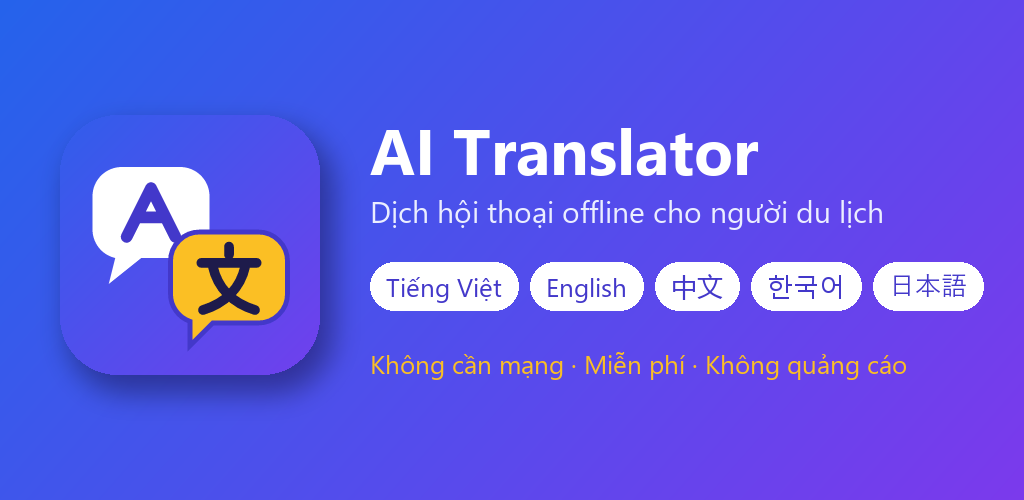
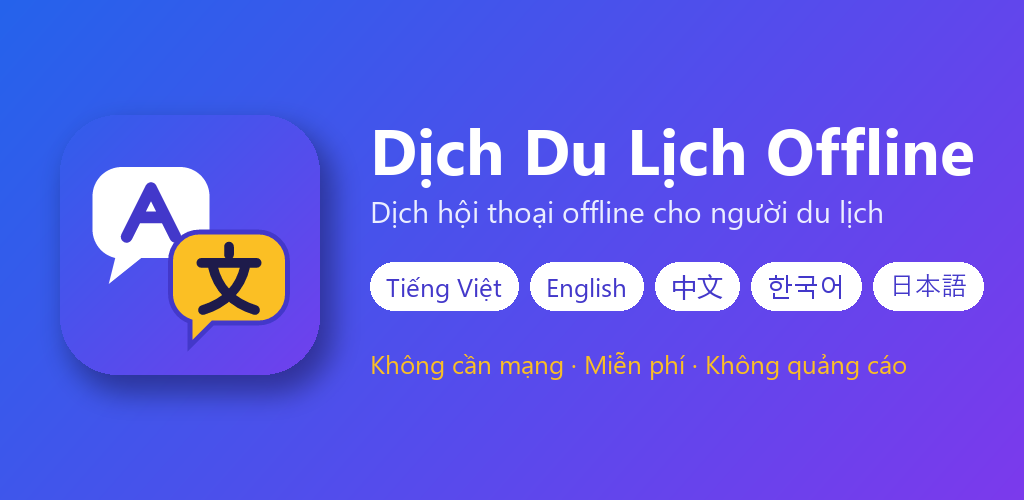
Rename the app to "Dịch Du Lịch Offline"; detailed Play Console walkthrough
- app_name, microphone messages, privacy policy, store listing and feature graphic
- docs/release.md: click-by-click steps (keystore, internal test, app content,
  store listing, closed test, production)

Changed region(s): [[0.3438, 0.24, 0.9688, 0.39]]

diff --git a/store/make_feature.py b/store/make_feature.py
@@ -1,6 +1,6 @@
 """Google Play feature graphic (1024 x 500): icon, app name, tagline and the five languages.
 
-    python store/make_feature.py [--name "AI Translator"] [--tagline "..."]
+    python store/make_feature.py [--name "Dịch Du Lịch Offline"] [--tagline "..."]
 
 Needs Pillow and an SVG renderer (resvg-py) for the icon; uses Windows fonts (Segoe UI, YaHei, Malgun, Yu Gothic).
 Re-run after renaming the app.
@@ -44,7 +44,7 @@ def icon(size: int) -> Image.Image:
 
 def main() -> None:
     ap = argparse.ArgumentParser()
-    ap.add_argument("--name", default="AI Translator")
+    ap.add_argument("--name", default="Dịch Du Lịch Offline")
     ap.add_argument("--tagline", default="Dịch hội thoại offline cho người du lịch")
     ap.add_argument("--note", default="Không cần mạng · Miễn phí · Không quảng cáo")
     ap.add_argument("--out", default=str(HERE / "feature-1024x500.png"))

diff --git a/docs/release.md b/docs/release.md
@@ -1,114 +1,129 @@
-# Phát hành lên Google Play
+# Phát hành "Dịch Du Lịch Offline" lên Google Play
 
-Hướng dẫn từng bước, theo thứ tự. 👤 = việc anh/chị tự làm (tài khoản, thanh toán, mật khẩu); các bước còn lại có thể nhờ Claude.
+Làm lần lượt từ trên xuống. 👤 = anh/chị tự làm (mật khẩu, tài khoản); 🤖 = nhờ Claude làm được.
+Tên menu trong Play Console có thể hiện tiếng Anh hoặc tiếng Việt tuỳ cài đặt — ghi cả hai.
 
-> Đã kiểm tra (2026-10-30): bản AAB **35 MB** (giới hạn của Play 200 MB); `targetSdk 36` đạt yêu cầu API 36 cho app mới;
-> cả 6 thư viện native đã căn trang **16 KB** (`llvm-readelf`: LOAD align `0x4000`, `zipalign -c -P 16` OK); chỉ arm64-v8a (64-bit).
+> Đã kiểm tra (2026-10-30): AAB **35 MB** (giới hạn 200 MB) · `targetSdk 36` (yêu cầu API 36 cho app mới) ·
+> 6 thư viện native căn trang **16 KB** · chỉ arm64-v8a (64-bit) · mã gói `io.github.thucnguyen79.aitranslator`.
 
-## Tổng quan thời gian
+## Bước 1 — 👤 Tạo khoá ký (một lần, ~5 phút)
 
-| Bước | Thời gian |
-|---|---|
-| 1. Tạo tài khoản nhà phát triển, xác minh danh tính | 1–3 ngày (chờ Google duyệt) |
-| 2–4. Khoá ký, build, tạo app trên Play Console, điền thông tin | 1 buổi |
-| 5. Kiểm thử kín với **≥ 12 người trong 14 ngày liên tục** (tài khoản cá nhân) | ≥ 14 ngày |
-| 6. Xin quyền phát hành chính thức → Google duyệt | vài ngày |
-
-## 1. 👤 Tạo tài khoản Google Play Console
-
-1. Vào <https://play.google.com/console/signup>, đăng nhập bằng tài khoản Google sẽ dùng lâu dài.
-2. Chọn loại tài khoản:
-   - **Cá nhân**: nhanh, nhưng tài khoản mới **bắt buộc kiểm thử kín ≥ 12 người × 14 ngày** trước khi lên chính thức (bước 5).
-   - **Tổ chức** (công ty): cần **số D-U-N-S** của công ty (miễn phí, đăng ký qua Dun & Bradstreet, mất vài ngày đến vài tuần); không bị yêu cầu 12 người × 14 ngày.
-3. Trả phí đăng ký một lần **25 USD** (thẻ Visa/Mastercard).
-4. Xác minh danh tính (CCCD/hộ chiếu) và số điện thoại; Google duyệt trong vài ngày.
-
-## 2. 👤 Tạo khoá ký (upload key)
-
-Bản lên Play được ký bằng **khoá tải lên (upload key)** của anh/chị; Google giữ khoá ký thật của app (Play App Signing).
-Mất upload key thì vẫn xin Google cấp lại được, nhưng mất vài ngày — hãy sao lưu file `.jks` và mật khẩu (trình quản lý mật khẩu, ổ ngoài). **Không đưa lên git.**
+Mở PowerShell tại thư mục dự án `D:\Projects\AI_Translators`:
 
 ```bash
-D:\Tools\jdk-21.0.11+10\bin\keytool.exe -genkeypair -v -keystore release.jks -alias aitranslator -keyalg RSA -keysize 4096 -validity 10000
+D:\Tools\jdk-21.0.11+10\bin\keytool.exe -genkeypair -v -keystore release.jks -alias dichdulich -keyalg RSA -keysize 4096 -validity 10000
 ```
 
-Tạo file `keystore.properties` ở thư mục gốc dự án (đã có trong `.gitignore`):
+- Nhập mật khẩu khoá 2 lần (ghi lại ngay vào trình quản lý mật khẩu).
+- Các câu hỏi tên/tổ chức/thành phố: điền tuỳ ý (ví dụ tên, `Ho Chi Minh`, `VN`), cuối cùng gõ `yes`.
+
+Tạo file `keystore.properties` cùng thư mục (file này và `release.jks` đã được git bỏ qua, **không bao giờ đưa lên GitHub**):
 
 ```properties
 storeFile=release.jks
-storePassword=...
-keyAlias=aitranslator
-keyPassword=...
+storePassword=MẬT_KHẨU_VỪA_ĐẶT
+keyAlias=dichdulich
+keyPassword=MẬT_KHẨU_VỪA_ĐẶT
 ```
 
-Trên CI thay bằng biến môi trường `RELEASE_STOREFILE`, `RELEASE_STOREPASSWORD`, `RELEASE_KEYALIAS`, `RELEASE_KEYPASSWORD`.
-Không có các giá trị này thì bản release được ký bằng khoá debug — **Play sẽ từ chối** bản đó.
+Sao lưu `release.jks` + mật khẩu ra một nơi khác (USB, Google Drive cá nhân). Nếu mất, vẫn xin Google đổi khoá được nhưng mất vài ngày.
 
-## 3. Build bản phát hành
+## Bước 2 — 🤖 Build bản phát hành
 
-1. Mỗi lần nộp bản mới: tăng `versionCode` (1, 2, 3…) và sửa `versionName` (0.1.0 → 0.1.1…) trong `app/build.gradle.kts`.
-2. Build App Bundle:
+```bash
+.\gradlew.bat :app:bundleRelease
+```
 
-   ```bash
-   .\gradlew.bat :app:bundleRelease
+File cần tải lên: `app\build\outputs\bundle\release\app-release.aab`. Mỗi lần tải bản mới lên Play phải tăng `versionCode` trong `app/build.gradle.kts` (1 → 2 → 3…).
+
+## Bước 3 — 👤 Tạo app trên Play Console
+
+1. Trang chủ Play Console → **Create app** (Tạo ứng dụng).
+2. Điền:
+   - **App name**: `Dịch Du Lịch Offline`
+   - **Default language**: `Vietnamese – vi`
+   - **App or game**: App · **Free or paid**: Free
+   - Tích 2 ô cam kết (Developer Program Policies, US export laws) → **Create app**.
+
+> Không bán app (Free) thì sau này không đổi sang trả phí được — đúng với app này.
+
+## Bước 4 — 👤 Thử nội bộ trước (khuyên làm, không cần duyệt)
+
+Giúp kiểm tra bản tải từ Play chạy được trên máy của chính anh/chị trước khi mời người khác.
+
+1. **Test and release → Testing → Internal testing** (Kiểm thử nội bộ) → tab **Testers** → **Create email list** → đặt tên "Nội bộ", thêm email Gmail của anh/chị → **Save**.
+2. **Create new release** → lần đầu Play hỏi về **Play App Signing** → chọn để Google quản lý khoá ký (mặc định) → tải `app-release.aab` lên.
+3. **Release name** tự điền `1 (0.1.0)`. **Release notes** (tiếng Việt):
    ```
+   <vi-VN>
+   Bản đầu tiên: dịch hội thoại offline Việt–Anh–Trung–Hàn–Nhật.
+   </vi-VN>
+   ```
+4. **Next** → **Save and publish** → tab **Testers** → **Copy link** → mở link trên điện thoại → *Accept invite* → cài từ Play → thử tải 1 gói và nói vài câu.
 
-   File ra: `app/build/outputs/bundle/release/app-release.aab`.
-3. Kiểm tra nhanh trước khi nộp: cài bản release lên máy (`.\gradlew.bat :app:installRelease`), mở app, tải 1 gói, nói thử 1 câu.
+## Bước 5 — 👤 Điền "App content" (Nội dung ứng dụng)
 
-## 4. 👤 Tạo app và điền thông tin trên Play Console
+Menu **Policy and programs → App content** (hoặc mục *Set up your app* trên Dashboard). Từng mục:
 
-**Tạo app**: *Create app* → tên app, ngôn ngữ mặc định **Tiếng Việt – vi**, loại *App*, *Free*, đồng ý các cam kết.
-
-> Tên "AI Translator" rất phổ biến trên Play và dễ bị nhầm/trùng — nên đặt tên riêng, ví dụ "Dịch Du Lịch Offline – 5 thứ tiếng". Đổi tên hiển thị trong `app_name` (`strings.xml`), **không** đổi `applicationId` (`io.github.thucnguyen79.aitranslator` là cố định mãi mãi sau lần tải lên đầu tiên).
-
-Trong mục **"Thiết lập ứng dụng" (Set up your app)** — điền lần lượt:
-
-| Mục | Điền gì cho app này |
+| Mục | Chọn / điền |
 |---|---|
-| Chính sách quyền riêng tư | `https://github.com/thucnguyen79/AI_Translator/blob/main/docs/privacy-policy.md` (repo đang công khai; nếu sau này chuyển repo về riêng tư thì phải đưa trang này sang GitHub Pages hoặc web khác) |
-| Quyền truy cập ứng dụng | Không cần đăng nhập — mọi chức năng dùng được ngay |
-| Quảng cáo | Không có quảng cáo |
-| Phân loại nội dung | Làm bảng câu hỏi IARC: loại *Utility/Productivity*; không bạo lực, không nội dung người dùng chia sẻ công khai, không mua bán → thường ra mức "Mọi lứa tuổi" |
-| Đối tượng mục tiêu | Chọn **18+** (hoặc 13+); không chọn trẻ em để tránh chính sách Gia đình |
-| An toàn dữ liệu (Data safety) | **Không thu thập, không chia sẻ dữ liệu**. Micro chỉ xử lý trên máy, không gửi đi → không tính là "thu thập". Có mã hoá khi truyền: Có (chỉ tải gói qua HTTPS). Cho phép xoá dữ liệu: người dùng tự xoá lịch sử trong app |
-| Ứng dụng chính phủ / tài chính / sức khoẻ | Không |
-| **Quyền dịch vụ chạy nền (Foreground service)** | Khai báo loại **Data sync** (`FOREGROUND_SERVICE_DATA_SYNC`): "tải gói ngôn ngữ do người dùng bấm tải, tiếp tục khi rời app, có thông báo tiến độ". Google yêu cầu **video ngắn** (quay màn hình: bấm Tải gói → về màn hình chính → thông báo tiến độ chạy) — tải lên YouTube (chế độ không công khai) và dán link |
+| **Privacy policy** | `https://github.com/thucnguyen79/AI_Translator/blob/main/docs/privacy-policy.md` |
+| **App access** | *All functionality in my app is available without any access restrictions* |
+| **Ads** | *No, my app does not contain ads* |
+| **Content rating** | *Start questionnaire* → email liên hệ → category **All Other App Types** (hoặc *Utility/Productivity* nếu có) → trả lời **No** cho bạo lực, tình dục, ngôn ngữ thô tục, ma tuý, cờ bạc; *Does the app allow users to interact or exchange content?* → **No** (chia sẻ chữ sang app khác không tính); *Share location?* → **No**; *Digital purchases?* → **No** → **Save → Submit** |
+| **Target audience and content** | Độ tuổi: chỉ chọn **18 and over** · *Could your app unintentionally appeal to children?* → **No** |
+| **News apps** | *No* |
+| **Data safety** | *Does your app collect or share any of the required user data types?* → **No** → Next → Submit. (Micro chỉ xử lý trên máy, không gửi đi nên không tính là thu thập; app không có tài khoản) |
+| **Government apps** | *No* |
+| **Financial features** | *My app doesn't provide any financial features* |
+| **Health** | *My app does not have any health features* |
+| **Advertising ID** | *No* (app không dùng mã quảng cáo) |
+| **Foreground service permissions** | Hiện ra sau khi đã tải AAB (Bước 4). Chọn loại **Data sync** → mô tả: *"Tải gói ngôn ngữ (mô hình nhận dạng, dịch, giọng đọc) khi người dùng bấm Tải; việc tải tiếp tục khi người dùng rời app và hiển thị thông báo tiến độ. Người dùng có thể huỷ bất cứ lúc nào."* → **Video**: link YouTube (xem bên dưới) |
 
-**Trang giới thiệu trên Store (Main store listing)** — nội dung soạn sẵn (vi + en), icon và ảnh bìa ở thư mục [store/](../store/listing.md):
+**Quay video khai báo dịch vụ nền** (~20 giây): trên điện thoại vuốt mở *Quay màn hình* → mở app → tab ⬇ → bấm **Tải** một gói (ví dụ 日本語) → về màn hình chính → kéo thanh thông báo xuống cho thấy "Đang tải gói ngôn ngữ" với tiến độ → dừng quay. Tải lên YouTube chế độ **Không công khai (Unlisted)**, dán link.
 
-| Thành phần | Yêu cầu |
-|---|---|
-| Mô tả ngắn | ≤ 80 ký tự, ví dụ: "Dịch hội thoại offline Việt–Anh–Trung–Hàn–Nhật, không cần mạng, miễn phí" |
-| Mô tả đầy đủ | ≤ 4000 ký tự: tính năng (nói/nhập/câu mẫu, 2–4 người, rảnh tay, lịch sử), **cần tải gói ngôn ngữ 100–200 MB mỗi thứ tiếng lần đầu**, không quảng cáo, không thu thập dữ liệu, ghi nguồn mô hình mã nguồn mở |
-| Icon | PNG 512 × 512 |
-| Ảnh bìa (feature graphic) | PNG/JPG 1024 × 500 |
-| Ảnh chụp màn hình điện thoại | 2–8 ảnh, tỉ lệ 9:16, cạnh 320–3840 px (Claude có thể chụp từ máy thử qua adb) |
-| Thể loại | Công cụ (Tools) hoặc Du lịch & Địa phương (Travel & Local) |
+## Bước 6 — 👤 Trang Store (Store listing)
 
-**Giấy phép mô hình** (đã ghi trong tab Thông tin): Supertonic dùng giấy phép OpenRAIL-M — giấy phép này yêu cầu chuyển tiếp các điều khoản hạn chế sử dụng cho người dùng; nên thêm vào mô tả hoặc trang chính sách một dòng dẫn link tới giấy phép Supertonic. SenseVoice (FunASR Model License) và vibert-capu (CC-BY-SA-4.0) cần ghi nguồn — đã có.
+1. **Grow users → Store presence → Main store listing** (Trang thông tin chính):
+   - **App name**: `Dịch Du Lịch Offline`
+   - **Short description**, **Full description**: copy từ [store/listing.md](../store/listing.md) (phần Tiếng Việt)
+   - **App icon**: [store/icon-512.png](../store/icon-512.png)
+   - **Feature graphic**: [store/feature-1024x500.png](../store/feature-1024x500.png)
+   - **Phone screenshots**: 5 ảnh trong [store/screenshots/](../store/screenshots/) (theo thứ tự 01 → 05)
+   - Ảnh máy tính bảng: bỏ trống được → **Save**
+2. Thêm bản tiếng Anh (khuyên làm, khách nước ngoài thấy mô tả tiếng Anh): trên trang đó **Manage translations → Add your own translations → English (United States) – en-US** → dán phần English của `store/listing.md`; tên tiếng Anh có thể để `Offline Travel Translator`.
+3. **Grow users → Store presence → Store settings** (Cài đặt cửa hàng):
+   - **App category**: *Travel & Local* (Du lịch & Địa phương)
+   - **Tags**: Translator, Travel (tuỳ chọn)
+   - **Contact details**: email (bắt buộc, hiện công khai trên Play), website: `https://github.com/thucnguyen79/AI_Translator` (tuỳ chọn) → **Save**
 
-## 5. 👤 Kiểm thử kín (bắt buộc với tài khoản cá nhân mới)
+## Bước 7 — 👤 Kiểm thử kín (Closed testing) — nếu Play yêu cầu
 
-1. *Testing → Closed testing* → tạo track, tải `app-release.aab` lên, viết ghi chú phát hành.
-2. Thêm người thử bằng danh sách email (Google Groups hoặc danh sách email trong Console) — cần **ít nhất 12 người**.
-3. Gửi link tham gia cho họ; mỗi người bấm "Trở thành người thử nghiệm" rồi cài app từ Play.
-4. Giữ **≥ 12 người tham gia liên tục ít nhất 14 ngày** (ai rời đi rồi vào lại thì đếm lại từ đầu). Nhờ họ dùng thật: tải gói, nói vài câu — Google có thể hỏi về việc kiểm thử khi xét duyệt.
-5. Trong 14 ngày đó có thể sửa lỗi và tải bản mới (tăng `versionCode`).
+Tài khoản cá nhân tạo sau 13/11/2023 phải có **≥ 12 người thử, tham gia liên tục ≥ 14 ngày** trước khi được phát hành chính thức.
+Cách biết: trên **Dashboard** của app mới, nếu có thẻ *"Apply for production / Đăng ký quyền truy cập phiên bản chính thức"* kèm điều kiện 12 người · 14 ngày thì phải làm bước này; nếu mục **Production** đã mở sẵn thì sang thẳng Bước 8.
 
-## 6. 👤 Xin phát hành chính thức
+1. **Test and release → Testing → Closed testing** → track *Closed testing - Alpha* → **Manage track**.
+2. **Countries / regions** → **Add countries** → Vietnam (và các nước muốn thử) → Save.
+3. **Testers** → **Create email list** → thêm **≥ 12 địa chỉ Gmail** (nên mời 15–20 để dư) → Save. Hoặc dùng một Google Group.
+4. **Create new release** → **Add from library** (chọn bản đã tải ở Bước 4) → release notes → **Next → Save → Send for review** (Play duyệt bản thử kín, thường vài giờ đến 2 ngày).
+5. Khi duyệt xong: tab **Testers** → **Copy link** → gửi cho người thử. Mỗi người: mở link bằng đúng Gmail đã thêm → **Become a tester** → cài app từ Play.
+6. Giữ đủ 12 người **không rời nhóm trong 14 ngày**. Nhờ họ dùng thật (tải gói, nói vài câu) — khi xin phát hành Google hỏi về phản hồi của người thử.
+7. Trong 14 ngày vẫn sửa lỗi và tải bản mới được (tăng `versionCode`, bản mới không làm mất số ngày đã tính).
 
-1. Sau 14 ngày: *Dashboard → Apply for production* → trả lời các câu hỏi về đợt kiểm thử (bao nhiêu người, phản hồi gì, đã sửa gì).
-2. Google duyệt quyền (thường vài ngày) → *Production → Create release* → tải AAB → chọn quốc gia → gửi duyệt.
-3. Bản đầu tiên thường được duyệt trong 1–7 ngày.
+## Bước 8 — 👤 Phát hành chính thức (Production)
+
+1. Sau 14 ngày: **Dashboard → Apply for production** → trả lời: đã thử với bao nhiêu người, họ phản hồi gì, đã sửa gì, app sẵn sàng chưa → Submit. Google trả lời trong khoảng 7 ngày.
+2. Được duyệt: **Test and release → Production → Countries / regions** → chọn nước (Vietnam, hoặc *Add all*) → **Create new release** → **Add from library** (hoặc tải AAB mới) → release notes → **Next → Save → Send for review**.
+3. Bản đầu tiên thường được duyệt trong 1–7 ngày; Play gửi email khi app lên Store.
 
 ## Cập nhật về sau
 
-Tăng `versionCode` → `bundleRelease` → *Production → Create new release* → tải AAB → ghi chú thay đổi.
-Mỗi năm Google nâng yêu cầu `targetSdk` (thường hạn cuối tháng 8): kiểm tra và nâng `targetSdk` trong `gradle/libs.versions.toml`.
+Tăng `versionCode` (+1) và `versionName` → `.\gradlew.bat :app:bundleRelease` → **Production → Create new release** → tải AAB → ghi chú → gửi duyệt.
+Mỗi năm Google nâng yêu cầu `targetSdk` (thường hạn 31/8): nâng `targetSdk` trong `gradle/libs.versions.toml`.
 
-## Lưu ý kỹ thuật
+## Ghi chú
 
-- Gói ngôn ngữ tải từ GitHub, Hugging Face, máy chủ Mozilla khi người dùng bấm — là dữ liệu mô hình, không phải mã chạy, nên không vi phạm chính sách tải mã của Play.
-- R8 (thu gọn mã) đang tắt vì sherpa-onnx và Bergamot gọi lớp Kotlin từ mã native; bật thì phải viết luật giữ lớp và thử lại kỹ.
-- Kích thước tải về từ Play (~35 MB) chưa gồm gói ngôn ngữ: nói rõ trong mô tả để tránh đánh giá xấu.
+- Mã gói `io.github.thucnguyen79.aitranslator` cố định vĩnh viễn sau lần tải AAB đầu tiên (app khác của anh/chị dùng dạng `com.thucnguyen79.…`; muốn đồng bộ thì phải đổi **trước** Bước 4).
+- Gói ngôn ngữ tải từ GitHub, Hugging Face, Mozilla khi người dùng bấm — là dữ liệu mô hình, không phải mã chạy, nên không vi phạm chính sách tải mã của Play.
+- Supertonic dùng giấy phép OpenRAIL-M (có điều khoản hạn chế sử dụng); giấy phép các mô hình được liệt kê trong tab Thông tin của app.
+- R8 (thu gọn mã) đang tắt vì sherpa-onnx và Bergamot gọi lớp Kotlin từ mã native.

diff --git a/docs/privacy-policy.md b/docs/privacy-policy.md
@@ -1,8 +1,8 @@
-# Privacy Policy — AI Translator
+# Privacy Policy — Dịch Du Lịch Offline
 
-_Last updated: 2026-10-28_
+_Last updated: 2026-10-30_
 
-AI Translator is an offline conversation translator. It is free and open source
+Dịch Du Lịch Offline ("Offline Travel Translator") is an offline conversation translator. It is free and open source
 (<https://github.com/thucnguyen79/AI_Translator>).
 
 ## What the app does with your data
@@ -17,7 +17,7 @@ AI Translator is an offline conversation translator. It is free and open source
   models) from GitHub, Hugging Face and Mozilla's model servers, when you ask for them. These downloads contain no
   personal data. Conversations never use the network.
 - **Voices.** Translations are read aloud by your phone's text-to-speech engine or by the built-in Supertonic
-  voice. If your phone's engine has no offline voice for a language, that engine (not AI Translator) may use the
+  voice. If your phone's engine has no offline voice for a language, that engine (not this app) may use the
   network; the app warns you when this is the case.
 
 ## What the app does not do
@@ -44,11 +44,11 @@ Questions: open an issue at <https://github.com/thucnguyen79/AI_Translator/issue
 
 ---
 
-# Chính sách quyền riêng tư — AI Translator (tiếng Việt)
+# Chính sách quyền riêng tư — Dịch Du Lịch Offline (tiếng Việt)
 
 - **Micro:** chỉ thu âm khi bạn bấm *Nói*. Nhận dạng, dịch và đọc đều chạy trên máy. Âm thanh không được lưu và không gửi đi đâu.
 - **Lịch sử:** chữ của hội thoại (không có âm thanh) được lưu trên máy để xem, tìm, chia sẻ hoặc xoá trong tab *Lịch sử*. Bật *Chế độ riêng tư* để không lưu. Gỡ app là xoá lịch sử; app không sao lưu lên mạng.
 - **Chia sẻ:** chữ chỉ rời khỏi máy khi chính bạn bấm *Chia sẻ* hoặc *Sao chép*.
 - **Mạng:** chỉ dùng để tải gói ngôn ngữ (mô hình) từ GitHub, Hugging Face và máy chủ của Mozilla khi bạn yêu cầu; không kèm dữ liệu cá nhân. Hội thoại không dùng mạng.
-- **Giọng đọc:** dùng bộ đọc của máy hoặc giọng Supertonic có sẵn trong gói. Nếu bộ đọc của máy không có giọng offline cho một ngôn ngữ, bộ đọc đó (không phải AI Translator) có thể dùng mạng; app sẽ cảnh báo.
+- **Giọng đọc:** dùng bộ đọc của máy hoặc giọng Supertonic có sẵn trong gói. Nếu bộ đọc của máy không có giọng offline cho một ngôn ngữ, bộ đọc đó (không phải Dịch Du Lịch Offline) có thể dùng mạng; app sẽ cảnh báo.
 - Không tài khoản, không quảng cáo, không thống kê/theo dõi, không bán hay chia sẻ dữ liệu.

diff --git a/store/listing.md b/store/listing.md
@@ -11,14 +11,14 @@ Nếu đổi tên app, sửa tên ở đây, trong `app_name` (strings.xml) và 
 
 ## Tiếng Việt
 
-**Tên** (≤ 30 ký tự): AI Translator
+**Tên** (≤ 30 ký tự): Dịch Du Lịch Offline
 
 **Mô tả ngắn** (≤ 80 ký tự):
 Dịch hội thoại offline Việt–Anh–Trung–Hàn–Nhật. Miễn phí, không quảng cáo.
 
 **Mô tả đầy đủ**:
 
-AI Translator giúp hai đến bốn người nói khác ngôn ngữ trò chuyện với nhau trên cùng một chiếc điện thoại — ngay cả khi không có mạng. Thích hợp khi đi du lịch: gọi món, hỏi đường, đi taxi, nhận phòng khách sạn, mua sắm.
+Dịch Du Lịch Offline giúp hai đến bốn người nói khác ngôn ngữ trò chuyện với nhau trên cùng một chiếc điện thoại — ngay cả khi không có mạng. Thích hợp khi đi du lịch: gọi món, hỏi đường, đi taxi, nhận phòng khách sạn, mua sắm.
 
 TOÀN BỘ CHẠY TRÊN MÁY
 • Nhận dạng giọng nói, dịch và đọc bản dịch đều chạy ngay trên điện thoại, không gửi âm thanh hay văn bản lên mạng.
@@ -44,12 +44,14 @@ Dùng các mô hình và thư viện mã nguồn mở: sherpa-onnx, SenseVoice, 
 
 ## English
 
+**Name** (≤ 30 characters): Dịch Du Lịch Offline — or, for the English listing only, "Offline Travel Translator"
+
 **Short description** (≤ 80 characters):
 Offline conversation translator: Vietnamese, English, Chinese, Korean, Japanese.
 
 **Full description**:
 
-AI Translator lets two to four people who speak different languages talk on one phone — even with no connection. Made for travel: ordering food, asking the way, taking a taxi, checking in, shopping.
+Dịch Du Lịch Offline (Offline Travel Translator) lets two to four people who speak different languages talk on one phone — even with no connection. Made for travel: ordering food, asking the way, taking a taxi, checking in, shopping.
 
 EVERYTHING RUNS ON THE PHONE
 • Speech recognition, translation and reading aloud all happen on the device; audio and text never leave it.

diff --git a/docs/checklist.md b/docs/checklist.md
@@ -190,3 +190,4 @@
 | 2026-10-30 | `3340d64` | Hướng dẫn phát hành Google Play (docs/release.md); kiểm tra AAB 35 MB, căn trang 16 KB, targetSdk 36 |
 | 2026-10-30 | `4a1e5d3` | Tài sản Google Play: icon 512, ảnh bìa 1024×500, mô tả vi + en (store/) |
 | 2026-10-30 | `1939754` | 5 ảnh chụp màn hình cho Google Play (store/screenshots), cắt từ ảnh thử trước đó |
+| 2026-10-30 | _(commit này)_ | Đổi tên app thành "Dịch Du Lịch Offline" (tên app, quyền micro, chính sách quyền riêng tư, trang Store, ảnh bìa); hướng dẫn Play Console từng bước theo tài khoản hiện có |

diff --git a/README.md b/README.md
@@ -1,4 +1,4 @@
-# AI Translator
+# Dịch Du Lịch Offline (AI Translator)
 
 Ứng dụng Android **miễn phí, chạy offline** giúp 2–4 người du lịch nói các ngôn ngữ khác nhau trò chuyện
 trực tiếp qua **một điện thoại dùng chung**.
